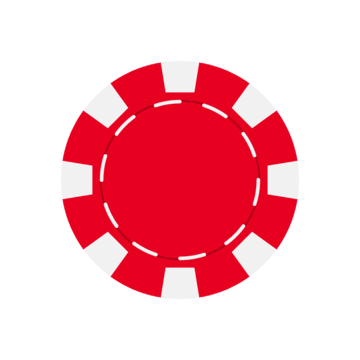
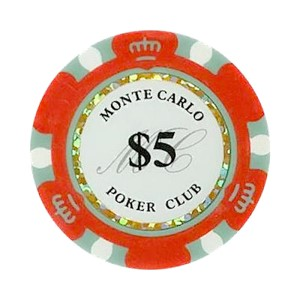
Add files via upload

diff --git a/index.html b/index.html
@@ -15,16 +15,17 @@
         <div class="line"></div>
       </div>
       <div class="title-box">
-        <span class="app-title">FRANKIE'S POKER FLIPSIES</span>
+        <span class="app-title">FRANKIE'S POKER FLIPS</span>
       </div>
       <span id="version-number" class="version-number"></span>
     </div>
     <div class="chips">
-      <div class="chip red" data-value="$5"><span>$ 5</span></div>
-      <div class="chip blue" data-value="$10"><span>$ 10</span></div>
-      <div class="chip brown" data-value="$20"><span>$ 20</span></div>
-      <div class="chip purple" data-value="$50"><span>$ 50</span></div>
-      <div class="chip green" data-value="$100"><span>$ 100</span></div>
+      <div class="chip" data-value="$5"><img src="images/chip-5.png" alt="$5 chip"></div>
+      <div class="chip" data-value="$10"><img src="images/chip-10.png" alt="$10 chip"></div>
+      
+      <div class="chip" data-value="$20"><img src="images/chip-20.png" alt="$20 chip"></div>
+      <div class="chip" data-value="$50"><img src="images/chip-50.png" alt="$50 chip"></div>
+      <div class="chip" data-value="$100"><img src="images/chip-100.png" alt="$100 chip"></div>
     </div>
     <div class="dark-blue-row">
       <div class="description">

diff --git a/css/styles.css b/css/styles.css
@@ -116,18 +116,21 @@ body {
   text-align: center;
   font-size: 1.2em;
   font-weight: bold;
-  color: white;
   display: flex;
   justify-content: center;
   align-items: center;
   cursor: pointer;
 }
 
+.chip img {
+  max-width: 100%;
+  max-height: 100%;
+}
+
 .chip span {
   pointer-events: none;
 }
 
-.chip.red { background-color: red; }
 .chip.blue { background-color: blue; }
 .chip.brown { background-color: brown; }
 .chip.purple { background-color: purple; }
